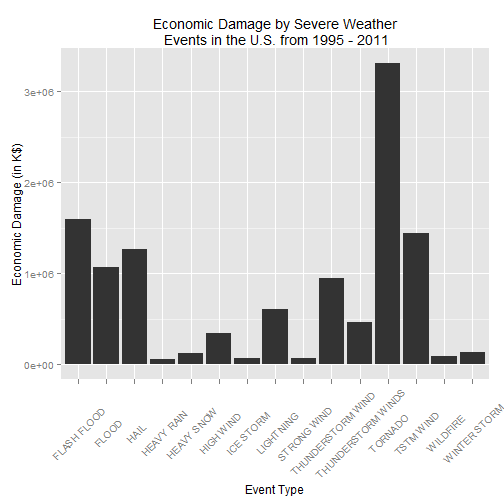
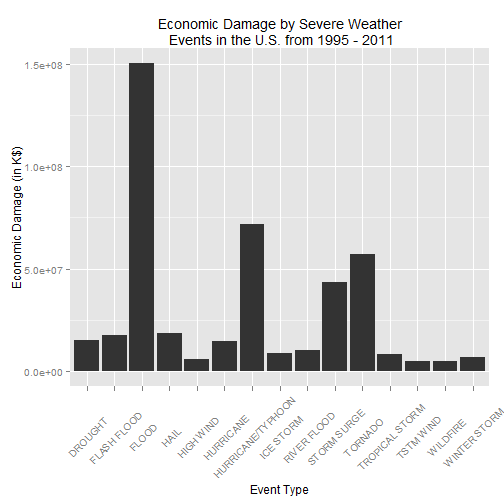
Fix property and crop damage unit conversion issue

Changed region(s): [[0.0, 0.0298, 1.0, 0.9821]]

diff --git a/peerAssessment2.md b/peerAssessment2.md
@@ -61,13 +61,39 @@ names(harm_by_etype)[2] = "HarmfulEvent"
 rank_by_etype_h <- arrange(harm_by_etype,harm_by_etype$HarmfulEvent,decreasing=T)
 ```
 #### what event type cause the greatest economic consequences?
-1. Sum up propertities damages and crop damages
-2. Sort the sum of damages in decendent order
-3. List the first 15 of them
+1. Since the unit of PROPDMG and CROPDMG varies from record to record, first rewrite them to thousand dollars unit
+2. Sum up propertities damages and crop damages
+3. Sort the sum of damages in decendent order
+4. List the first 15 of them
 
 
 ```r
-damage_by_etype <- aggregate( (PROPDMG + CROPDMG) ~ EVTYPE, storm_0, sum)
+storm_0$prop <- 0
+storm_0$crop <- 0
+
+storm_0[which(storm_0$PROPDMGEXP %in% (1:9)),]$prop <- 
+  storm_0[which(storm_0$PROPDMGEXP %in% (1:9)),]$PROPDMG / 100;
+storm_0[which(toupper(storm_0$PROPDMGEXP) == "H"),]$prop <- 
+    storm_0[which(toupper(storm_0$PROPDMGEXP) == "H"),]$PROPDMG / 10;
+storm_0[which(toupper(storm_0$PROPDMGEXP) == "K"),]$prop <- 
+    storm_0[which(toupper(storm_0$PROPDMGEXP) == "K"),]$PROPDMG;
+storm_0[which(toupper(storm_0$PROPDMGEXP) == "M"),]$prop <- 
+    storm_0[which(toupper(storm_0$PROPDMGEXP) == "M"),]$PROPDMG * 1000;
+storm_0[which(toupper(storm_0$PROPDMGEXP) == "B"),]$prop <- 
+    storm_0[which(toupper(storm_0$PROPDMGEXP) == "B"),]$PROPDMG * 1000000;
+    
+storm_0[which(storm_0$CROPDMGEXP %in% (1:9)),]$crop <- 
+    storm_0[which(storm_0$CROPDMGEXP %in% (1:9)),]$CROPDMG / 100;
+storm_0[which(toupper(storm_0$CROPDMGEXP) == "H"),]$crop <- 
+    storm_0[which(toupper(storm_0$CROPDMGEXP) == "H"),]$CROPDMG / 10;
+storm_0[which(toupper(storm_0$CROPDMGEXP) == "K"),]$crop <- 
+    storm_0[which(toupper(storm_0$CROPDMGEXP) == "K"),]$CROPDMG;
+storm_0[which(toupper(storm_0$CROPDMGEXP) == "M"),]$crop <- 
+    storm_0[which(toupper(storm_0$CROPDMGEXP) == "M"),]$CROPDMG * 1000;
+storm_0[which(toupper(storm_0$CROPDMGEXP) == "B"),]$crop <- 
+    storm_0[which(toupper(storm_0$CROPDMGEXP) == "B"),]$CROPDMG * 1000000;
+
+damage_by_etype <- aggregate( (prop + crop) ~ EVTYPE, storm_0, sum)
 names(damage_by_etype)[2] = "EcoDmg"
 rank_by_etype_d <- arrange(damage_by_etype,damage_by_etype$EcoDmg,decreasing=T)
 ```
@@ -131,22 +157,22 @@ top15_d
 ```
 
 ```
-##            Event Type Economic Damage (K$)
-## 1             TORNADO           3312276.68
-## 2         FLASH FLOOD           1599325.05
-## 3           TSTM WIND           1445168.21
-## 4                HAIL           1268289.66
-## 5               FLOOD           1067976.36
-## 6   THUNDERSTORM WIND            943635.62
-## 7           LIGHTNING            606932.39
-## 8  THUNDERSTORM WINDS            464978.11
-## 9           HIGH WIND            342014.77
-## 10       WINTER STORM            134699.58
-## 11         HEAVY SNOW            124417.71
-## 12           WILDFIRE             88823.54
-## 13          ICE STORM             67689.62
-## 14        STRONG WIND             64610.71
-## 15         HEAVY RAIN             61964.94
+##           Event Type Economic Damage (K$)
+## 1              FLOOD            150319678
+## 2  HURRICANE/TYPHOON             71913713
+## 3            TORNADO             57352115
+## 4        STORM SURGE             43323541
+## 5               HAIL             18758222
+## 6        FLASH FLOOD             17562129
+## 7            DROUGHT             15018672
+## 8          HURRICANE             14610229
+## 9        RIVER FLOOD             10148405
+## 10         ICE STORM              8967041
+## 11    TROPICAL STORM              8382237
+## 12      WINTER STORM              6715441
+## 13         HIGH WIND              5908618
+## 14          WILDFIRE              5060587
+## 15         TSTM WIND              5038936
 ```
 ### Conclusion  
-From these data, we found that **tornado** is the most harmful event type to population health, and also have the greatest economic consequences.
+From these data, we found that **tornado** is the most harmful event type to population health, and **flood** cause the greatest economic consequences.
